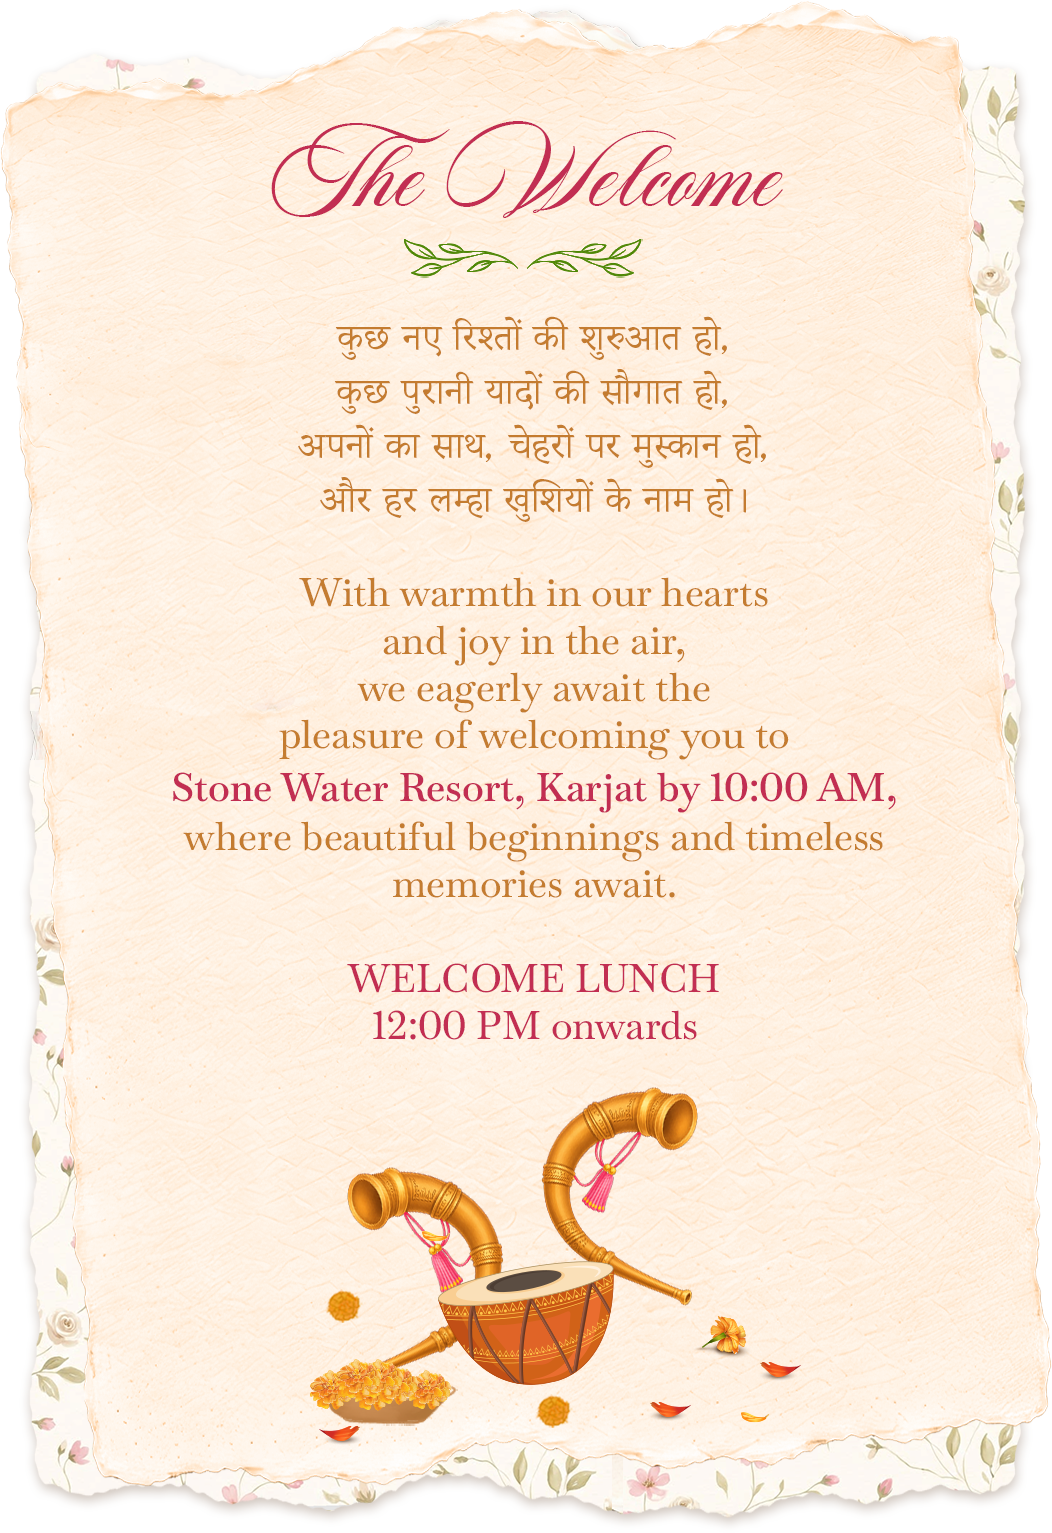
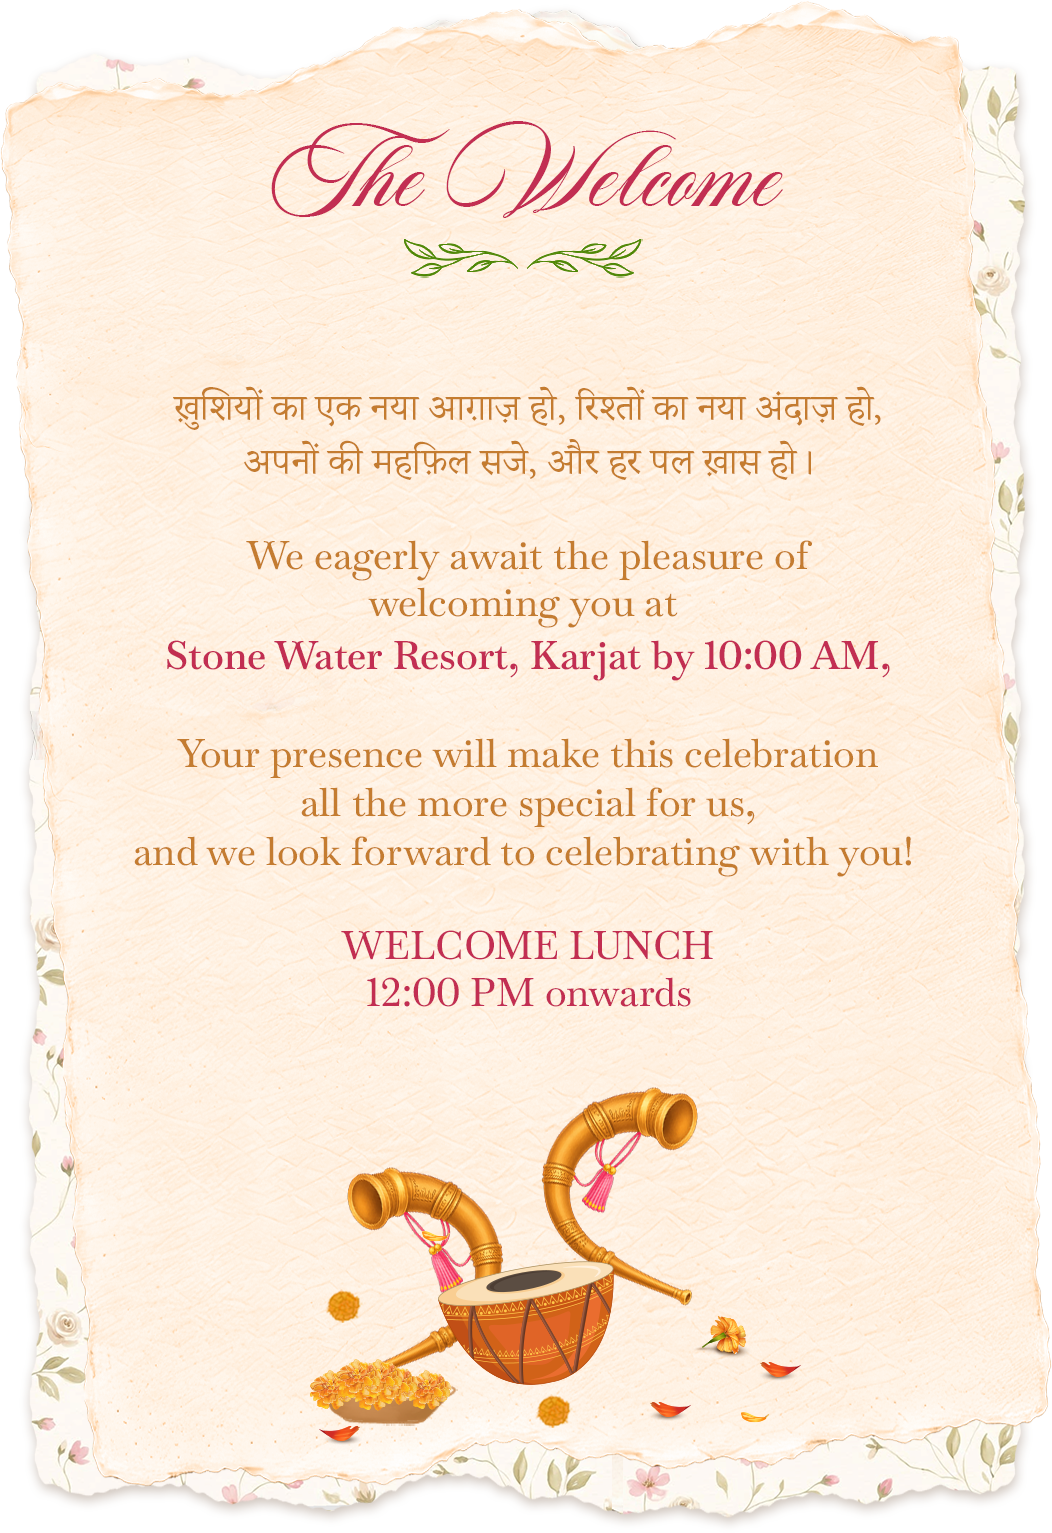
Update The Welcome card with new text

diff --git a/index.html b/index.html
@@ -9,7 +9,7 @@
   <link rel="preconnect" href="https://fonts.gstatic.com" crossorigin />
   <link href="https://fonts.googleapis.com/css2?family=Gilda+Display&display=swap" rel="stylesheet" />
   <!-- bump ?v= after every change so browsers load the new files instead of a cached copy -->
-  <link rel="stylesheet" href="style.css?v=28" />
+  <link rel="stylesheet" href="style.css?v=29" />
 </head>
 <body class="intro-on">
 
@@ -36,8 +36,8 @@
 
     <!-- ========== THE WELCOME (before Haldi; drawn under the invitation card so the card's torn edge overlaps it) ========== -->
     <!-- positions measured against the client's flat mockup by template matching -->
-    <img class="el fade" src="assets/welcome/welcome.png" style="--x:16; --y:3452; --w:1052;"
-         alt="The Welcome · With warmth in our hearts and joy in the air, we eagerly await the pleasure of welcoming you to Stone Water Resort, Karjat by 10:00 AM · Welcome Lunch 12:00 PM onwards" />
+    <img class="el fade" src="assets/welcome/welcome.png?v=2" style="--x:16; --y:3452; --w:1052;"
+         alt="The Welcome · We eagerly await the pleasure of welcoming you at Stone Water Resort, Karjat by 10:00 AM. Your presence will make this celebration all the more special for us · Welcome Lunch 12:00 PM onwards" />
     <img class="el tree-l" src="assets/welcome/left-tree.png"  style="--x:-50; --y:3240; --w:477;" alt="" />
     <img class="el tree-r" src="assets/welcome/right-tree.png" style="--x:730; --y:3302; --w:477;" alt="" />
     <!-- garlands hanging from the trees -->
@@ -153,6 +153,6 @@
 
   </main>
 
-  <script src="script.js?v=28"></script>
+  <script src="script.js?v=29"></script>
 </body>
 </html>
